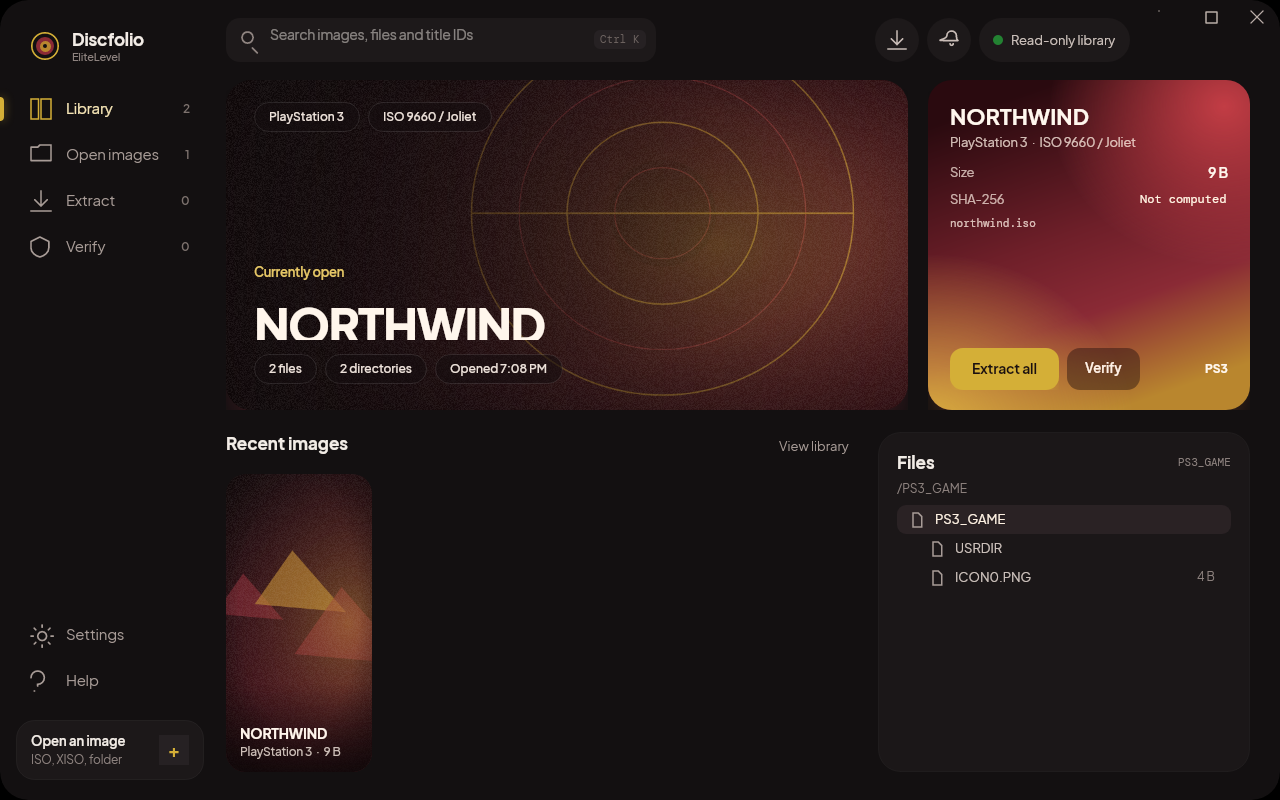
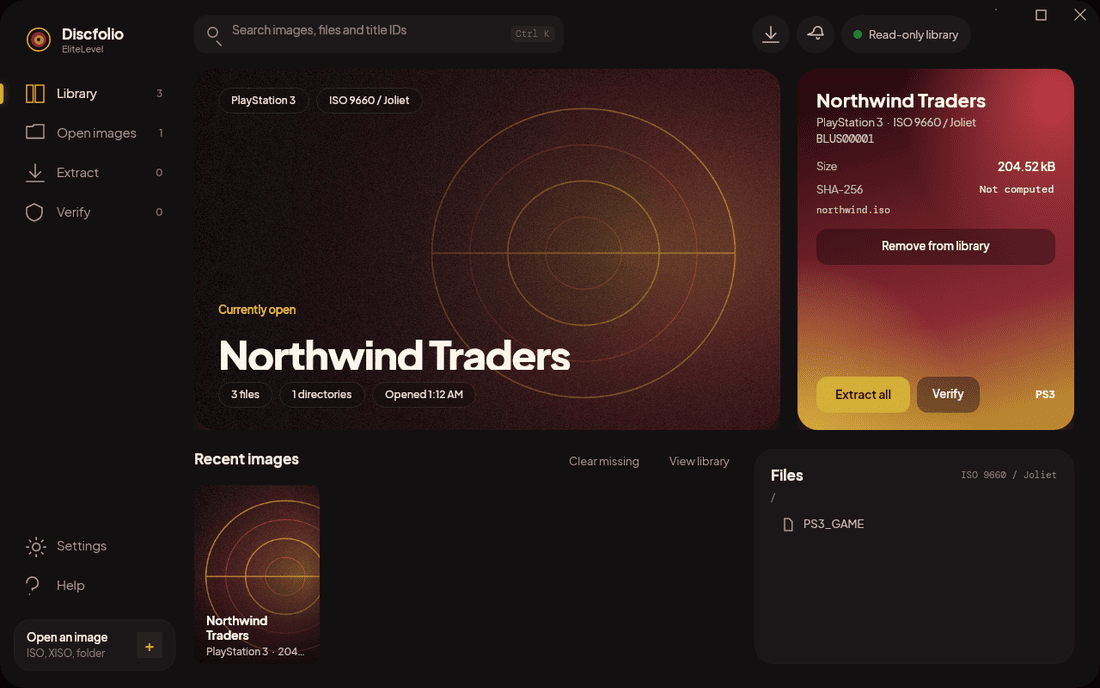
Prepare the repository for public release
The README Download section points at GitHub releases. docs/screenshot.png shows the current window with synthetic data. The WiX installer is removed in favour of Velopack. .gitignore covers more console file types and .gitleaksignore covers design-system color names.

diff --git a/README.md b/README.md
@@ -18,13 +18,11 @@ A read-only explorer for console disc images and folder dumps.
 
 </div>
 
-## Install
+## Download
 
-Download the latest release from [GitHub releases](https://github.com/EliteLevelSoftware/EliteLevelDiscfolio/releases).
+Windows builds are on the [releases](https://github.com/EliteLevelSoftware/EliteLevelDiscfolio/releases) page: `Setup.exe`, the portable zip, and `SHA256SUMS.txt`.
 
-On Windows, run the setup program. It installs per user to `%LocalAppData%\Discfolio`, adds Start Menu and Desktop shortcuts, and registers in Installed apps. It does not need administrator rights. Uninstall from Installed apps; that removes the program, the shortcuts, and the registry entry. A portable zip is on the same release if you would rather not install.
-
-`SHA256SUMS.txt` on the release lists the SHA-256 digest of each file.
+`Setup.exe` installs per user to `%LocalAppData%\Discfolio`, adds Start Menu and Desktop shortcuts, and registers in Installed apps. It does not need administrator rights. Uninstall from Installed apps. The portable zip runs without installing. `SHA256SUMS.txt` is the SHA-256 digest of each file on that release.
 
 Discfolio checks those public releases for updates when it starts. That check is on by default and can be turned off under Settings. Check now is there too, along with the channel: stable or prerelease. When an update is available, a notice downloads it in the background. Discfolio restarts only after you choose OK. The public releases need no token.
 

diff --git a/docs/RELEASING.md b/docs/RELEASING.md
@@ -3,10 +3,9 @@
 The tag workflow builds the app, packs it with [Velopack](https://github.com/velopack/velopack), and publishes a GitHub release. Do the steps below on `main` after the version you want is merged.
 
 1. Set `<Version>` in `Directory.Build.props` to `X.Y.Z`.
-2. Set the WiX package `Version` in `installer/wix/Discfolio.wxs` to `X.Y.Z.0`.
-3. Add a `CHANGELOG.md` section headed `## X.Y.Z`. The release notes are that section.
-4. Commit those changes.
-5. Tag `vX.Y.Z` and push the tag.
+2. Add a `CHANGELOG.md` section headed `## X.Y.Z`. The release notes are that section.
+3. Commit those changes.
+4. Tag `vX.Y.Z` and push the tag.
 
 ```text
 git tag vX.Y.Z
@@ -30,7 +29,7 @@ The setup program installs per user to `%LocalAppData%\Discfolio`. It adds Start
 
 The Windows channel is `win-x64-stable` or `win-x64-prerelease`. Linux uses `linux-x64-stable` or `linux-x64-prerelease`. macOS uses `osx-arm64-stable` or `osx-arm64-prerelease`. Windows is required. The Linux and macOS packs are best-effort and do not block the Windows release.
 
-CI on pull requests also runs `vpk pack` for Windows and does not upload. The portable single-file publish and the WiX MSI stay on that CI job.
+CI on pull requests also runs `vpk pack` for Windows and does not upload. The version packed there is the `<Version>` in `Directory.Build.props`. The tag workflow packs the version from the tag.
 
 ## Updates
 

diff --git a/CHANGELOG.md b/CHANGELOG.md
@@ -6,6 +6,7 @@
 - Long titles wrap to two lines on the side card, the hero, and the tiles. The full title is on the tooltip.
 - Settings can check for updates on startup, or check now. The channel is stable or prerelease. An update notice downloads in the background and restarts only after you choose OK.
 - Windows releases are packed with Velopack. The setup program installs per user to `%LocalAppData%\Discfolio`, adds Start Menu and Desktop shortcuts, uses the Discfolio icon, and uninstalls from Installed apps. The portable zip, full package, and delta package (when a previous release exists) are published with it. The app reads the public GitHub releases. No token is required.
+- The download page points at those GitHub release files: Setup.exe, the portable zip, and SHA256SUMS.txt. The window screenshot matches this version. The separate WiX installer is no longer built.
 
 ## 0.2.1
 
